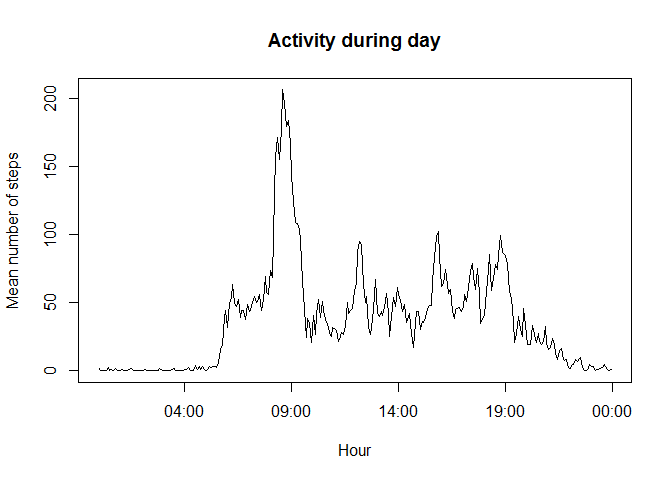
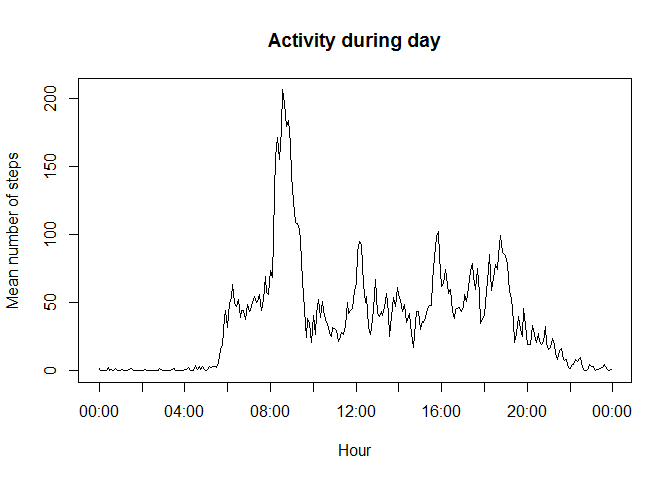
Final details and comments

diff --git a/PA1_template.html b/PA1_template.html
@@ -82,7 +82,7 @@ print(str(activity))</code></pre>
 ##  $ steps   : int  NA NA NA NA NA NA NA NA NA NA ...
 ##  $ date    : Date, format: &quot;2012-10-01&quot; &quot;2012-10-01&quot; ...
 ##  $ interval: chr  &quot;00:00&quot; &quot;00:05&quot; &quot;00:10&quot; &quot;00:15&quot; ...
-##  $ time    : POSIXlt, format: &quot;2014-12-15 00:00:00&quot; &quot;2014-12-15 00:05:00&quot; ...
+##  $ time    : POSIXlt, format: &quot;2015-01-18 00:00:00&quot; &quot;2015-01-18 00:05:00&quot; ...
 ## NULL</code></pre>
 </div>
 <div id="what-is-mean-total-number-of-steps-taken-per-day" class="section level2">
@@ -117,9 +117,11 @@ stepsPerInterval$time &lt;- strptime(stepsPerInterval$interval, &quot;%H:%M&quot
 maxPerDay &lt;- max(stepsPerInterval$steps, na.rm=TRUE)
 maxTime &lt;- stepsPerInterval$time[stepsPerInterval$steps == maxPerDay]
 #Make plot steps vs. time
-with(stepsPerInterval, plot(time, steps, type=&quot;l&quot;, xlab=&quot;Hour&quot;, ylab=&quot;Mean number of steps&quot;, main=&quot;Activity during day&quot;))</code></pre>
[1 lines of base64/hex data omitted]
-<p><strong>In average, the time with more activity along the day, is 8:35 hs.</strong></p>
+with(stepsPerInterval, plot(time, steps, type=&quot;l&quot;, xlab=&quot;Hour&quot;, ylab=&quot;Mean number of steps&quot;, main=&quot;Activity during day&quot;, xaxt=&quot;n&quot;))
+tickMarks = as.POSIXct(as.character(seq(0, 24, by=2)), format=&quot;%H&quot;)
+axis.POSIXct(1, at = tickMarks)</code></pre>
[1 lines of base64/hex data omitted]
+<p><strong>In average, the time interval with more activity along the day is from 8:35 hs to 8:40 hs.</strong></p>
 </div>
 <div id="imputing-missing-values" class="section level2">
 <h2>Imputing missing values</h2>
@@ -138,12 +140,18 @@ newActivity &lt;- activity
 #Imputation strategy: 
 #For each NA record, take the mean of every data with the same date, and the mean of every data with the same interval (time of the day) and take the average of both means. If every information for date is absent, imput the mean of the time of day.
 for(i in 1:nrow(newActivity)){
+  #For every NA data...
   if(newActivity$isNA[i]){
+    #1) found mean per interval (time of the day)
     meanPerInterval &lt;- stepsPerInterval$steps[stepsPerInterval$interval == newActivity$interval[i]]
+    #2) If there's data for the date, ...
     if(activity$date[i] %in% stepsPerDate$date){
+      #... found mean per date and average both means; ...
       meanPerDate &lt;- stepsPerDate$steps[stepsPerDate$date == activity$date[i]]
       newActivity$steps[i] &lt;- (meanPerDate + meanPerInterval) / 2}
+    #... if there's not data for the date
       else{
+        #... just take mean per interval
         newActivity$steps[i] &lt;- meanPerInterval}}}
 #Now with the new data, repeat the first chunk
 stepsPerDate &lt;- aggregate(steps ~ date, newActivity, sum, na.rm=T)
@@ -156,9 +164,10 @@ hist(stepsPerDate$steps, breaks = 1000 * (0:22), main = &quot;Frequency of steps
 abline(v = meanStepsPerDay, col = &quot;blue&quot;, lw = 2)</code></pre>
[1 lines of base64/hex data omitted]
 <p><strong>Originally there was 2304 missing data.</strong></p>
+<p>Missing data were imputated averaging the mean of every data in the selected time interval and the mean of every data in the selected date (if available).</p>
 <p><strong>The mean, having imputed data, is 10766.2 steps per day.</strong></p>
 <p><strong>The median, having imputed data, is 10766.2 steps per day.</strong></p>
-<p>The differences with respect to non-imputed data are imperceptible.</p>
+<p>The differences with respect to non-imputed data (above) are negligible.</p>
 </div>
 <div id="are-there-differences-in-activity-patterns-between-weekdays-and-weekends" class="section level2">
 <h2>Are there differences in activity patterns between weekdays and weekends?</h2>
@@ -184,11 +193,14 @@ stepsPerInterval &lt;- aggregate(steps ~ interval + kindOfDay, newActivity, mean
 #Create a variable time (character variable don't allow ploting)
 stepsPerInterval$time &lt;- strptime(stepsPerInterval$interval, &quot;%H:%M&quot;)
 #Make two plots steps vs. time, by kindOfDay
+tickMarks = as.POSIXct(as.character(seq(0, 24, by=4)), format=&quot;%H&quot;)
 par(mfrow=c(1, 2))
-with(stepsPerInterval[stepsPerInterval$kindOfDay == &quot;weekday&quot;,], plot(time, steps, type=&quot;l&quot;, xlab=&quot;Hour&quot;, ylab=&quot;Mean number of steps&quot;, ylim=c(0, 240), main=&quot;Weekdays&quot;))
-with(stepsPerInterval[stepsPerInterval$kindOfDay == &quot;weekend&quot;,], plot(time, steps, type=&quot;l&quot;, xlab=&quot;Hour&quot;, ylab=&quot;Mean number of steps&quot;, ylim=c(0, 240), main=&quot;Weekends&quot;))</code></pre>
[1 lines of base64/hex data omitted]
-<p>The maximum level of activity during weekends tends to be lesser than the level of activity during weekdays. However, during worktime (9 - 17 hs), the weekends tend to be more active.</p>
+with(stepsPerInterval[stepsPerInterval$kindOfDay == &quot;weekday&quot;,], plot(time, steps, type=&quot;l&quot;, xlab=&quot;Hour&quot;, ylab=&quot;Mean number of steps&quot;, ylim=c(0, 240), main=&quot;Weekdays&quot;, xaxt=&quot;n&quot;))
+axis.POSIXct(1, at=tickMarks)
+with(stepsPerInterval[stepsPerInterval$kindOfDay == &quot;weekend&quot;,], plot(time, steps, type=&quot;l&quot;, xlab=&quot;Hour&quot;, ylab=&quot;Mean number of steps&quot;, ylim=c(0, 240), main=&quot;Weekends&quot;, xaxt=&quot;n&quot;))
+axis.POSIXct(1, at=tickMarks)</code></pre>
[1 lines of base64/hex data omitted]
+<p>The maximum level of activity during weekends tends to be lesser than the maximum level of activity during weekdays. However, during worktime (9 - 17 hs), the weekends tend to be more active.</p>
 </div>
 
 

diff --git a/PA1_template.md b/PA1_template.md
@@ -34,7 +34,7 @@ print(str(activity))
 ##  $ steps   : int  NA NA NA NA NA NA NA NA NA NA ...
 ##  $ date    : Date, format: "2012-10-01" "2012-10-01" ...
 ##  $ interval: chr  "00:00" "00:05" "00:10" "00:15" ...
-##  $ time    : POSIXlt, format: "2014-12-15 00:00:00" "2014-12-15 00:05:00" ...
+##  $ time    : POSIXlt, format: "2015-01-18 00:00:00" "2015-01-18 00:05:00" ...
 ## NULL
 ```
 
@@ -74,12 +74,14 @@ stepsPerInterval$time <- strptime(stepsPerInterval$interval, "%H:%M")
 maxPerDay <- max(stepsPerInterval$steps, na.rm=TRUE)
 maxTime <- stepsPerInterval$time[stepsPerInterval$steps == maxPerDay]
 #Make plot steps vs. time
-with(stepsPerInterval, plot(time, steps, type="l", xlab="Hour", ylab="Mean number of steps", main="Activity during day"))
+with(stepsPerInterval, plot(time, steps, type="l", xlab="Hour", ylab="Mean number of steps", main="Activity during day", xaxt="n"))
+tickMarks = as.POSIXct(as.character(seq(0, 24, by=2)), format="%H")
+axis.POSIXct(1, at = tickMarks)
 ```
 
 ![](PA1_template_files/figure-html/day-1.png) 
 
-**In average, the time with more activity along the day, is  8:35 hs.**
+**In average, the time interval with more activity along the day is from 8:35 hs to 8:40 hs.**
 
 ## Imputing missing values
 Note that there are a number of days/intervals where there are missing values (coded as NA). The presence of missing days may introduce bias into some calculations or summaries of the data.
@@ -102,12 +104,18 @@ newActivity <- activity
 #Imputation strategy: 
 #For each NA record, take the mean of every data with the same date, and the mean of every data with the same interval (time of the day) and take the average of both means. If every information for date is absent, imput the mean of the time of day.
 for(i in 1:nrow(newActivity)){
+  #For every NA data...
   if(newActivity$isNA[i]){
+    #1) found mean per interval (time of the day)
     meanPerInterval <- stepsPerInterval$steps[stepsPerInterval$interval == newActivity$interval[i]]
+    #2) If there's data for the date, ...
     if(activity$date[i] %in% stepsPerDate$date){
+      #... found mean per date and average both means; ...
       meanPerDate <- stepsPerDate$steps[stepsPerDate$date == activity$date[i]]
       newActivity$steps[i] <- (meanPerDate + meanPerInterval) / 2}
+    #... if there's not data for the date
       else{
+        #... just take mean per interval
         newActivity$steps[i] <- meanPerInterval}}}
 #Now with the new data, repeat the first chunk
 stepsPerDate <- aggregate(steps ~ date, newActivity, sum, na.rm=T)
@@ -124,11 +132,13 @@ abline(v = meanStepsPerDay, col = "blue", lw = 2)
 
 **Originally there was 2304 missing data.**
 
+Missing data were imputated averaging the mean of every data in the selected time interval and the mean of every data in the selected date (if available).
+
 **The mean, having imputed data, is 10766.2 steps per day.**
 
 **The median, having imputed data, is 10766.2 steps per day.**
 
-The differences with respect to non-imputed data are imperceptible.
+The differences with respect to non-imputed data (above) are negligible.
 
 ## Are there differences in activity patterns between weekdays and weekends?
 For this part the weekdays() function may be of some help here. Use the dataset with the filled-in missing values for this part.
@@ -156,11 +166,14 @@ stepsPerInterval <- aggregate(steps ~ interval + kindOfDay, newActivity, mean, n
 #Create a variable time (character variable don't allow ploting)
 stepsPerInterval$time <- strptime(stepsPerInterval$interval, "%H:%M")
 #Make two plots steps vs. time, by kindOfDay
+tickMarks = as.POSIXct(as.character(seq(0, 24, by=4)), format="%H")
 par(mfrow=c(1, 2))
-with(stepsPerInterval[stepsPerInterval$kindOfDay == "weekday",], plot(time, steps, type="l", xlab="Hour", ylab="Mean number of steps", ylim=c(0, 240), main="Weekdays"))
-with(stepsPerInterval[stepsPerInterval$kindOfDay == "weekend",], plot(time, steps, type="l", xlab="Hour", ylab="Mean number of steps", ylim=c(0, 240), main="Weekends"))
+with(stepsPerInterval[stepsPerInterval$kindOfDay == "weekday",], plot(time, steps, type="l", xlab="Hour", ylab="Mean number of steps", ylim=c(0, 240), main="Weekdays", xaxt="n"))
+axis.POSIXct(1, at=tickMarks)
+with(stepsPerInterval[stepsPerInterval$kindOfDay == "weekend",], plot(time, steps, type="l", xlab="Hour", ylab="Mean number of steps", ylim=c(0, 240), main="Weekends", xaxt="n"))
+axis.POSIXct(1, at=tickMarks)
 ```
 
 ![](PA1_template_files/figure-html/week-1.png) 
 
-The maximum level of activity during weekends tends to be lesser than the level of activity during weekdays. However, during worktime (9 - 17 hs), the weekends tend to be more active.
+The maximum level of activity during weekends tends to be lesser than the maximum level of activity during weekdays. However, during worktime (9 - 17 hs), the weekends tend to be more active.
